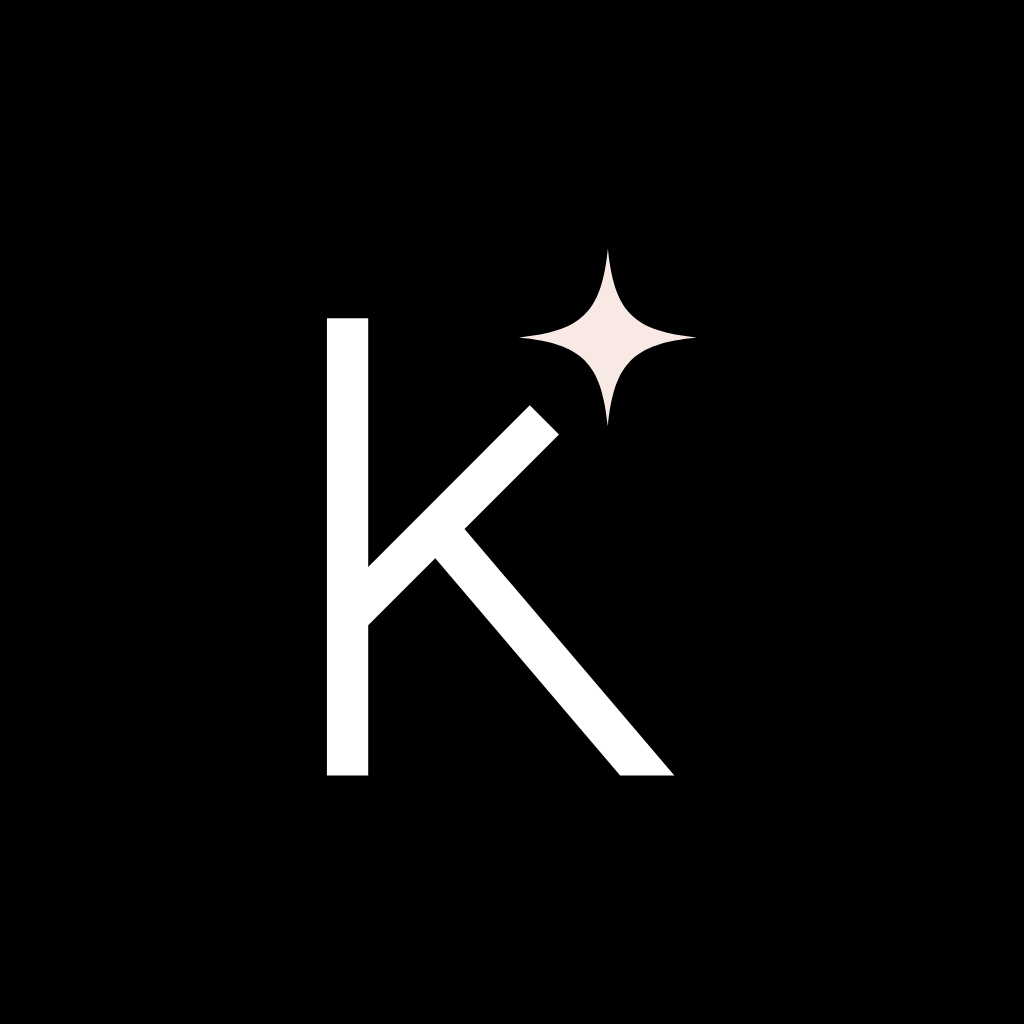
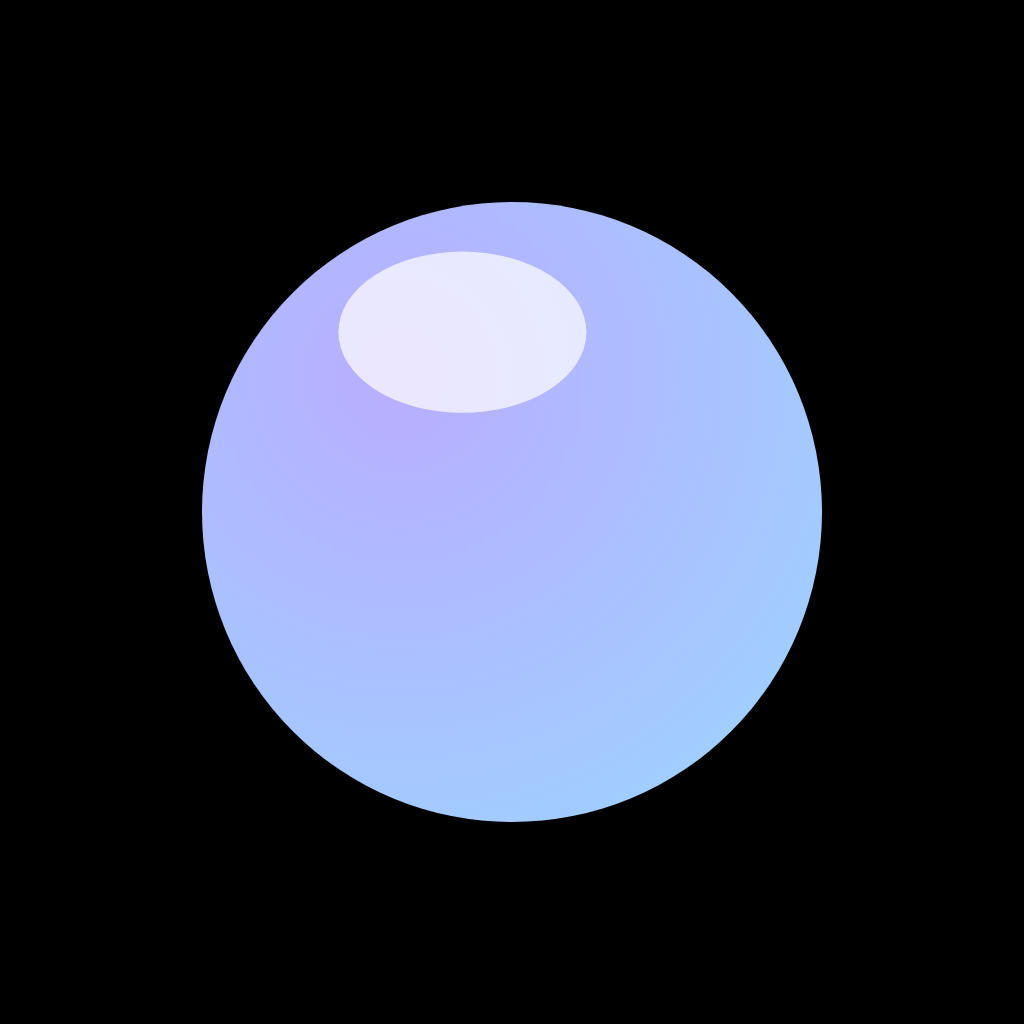
Mobile : l'orbe remplace le K, nouvelle intro
- Logo : l'orbe remplace le K étoilé (ui/Logo.tsx).
- Intro : même scénario que le web (ui/Intro.tsx).
- Icône, icône adaptative, lancement et favicon régénérés.

Claude-Session: https://claude.ai/code/session_017EdprxiaToN2E9w5S65h9H

Changed region(s): [[0.1875, 0.1875, 0.8125, 0.8125]]

diff --git a/mobile/src/ui/Intro.tsx b/mobile/src/ui/Intro.tsx
@@ -2,38 +2,31 @@ import { useEffect, useState } from 'react';
 import { Pressable, StyleSheet, View } from 'react-native';
 import Animated, {
   Easing,
-  useAnimatedProps,
   useAnimatedStyle,
   useReducedMotion,
   useSharedValue,
   withDelay,
   withTiming,
 } from 'react-native-reanimated';
-import Svg, { ClipPath, Defs, G, Path, Rect } from 'react-native-svg';
+import Svg, { Circle, Defs, Ellipse, RadialGradient, Stop } from 'react-native-svg';
 import { useTheme } from '../theme/ThemeProvider';
 import { type } from '../theme/tokens';
 
 /**
- * L'intro (13/10), une fois par lancement, la même que sur le web
- * (`web/src/components/Intro.tsx`) : le K se coud trait par trait,
- * l'étincelle de Kodi s'allume, une couture se pique, DRESSKODE se resserre,
- * puis la caméra plonge dans le K et l'app apparaît derrière. Noir sur blanc
- * en clair, blanc sur noir en sombre. Un toucher la passe ; « Réduire les
- * animations » la réduit à un fondu.
+ * L'intro (25/10), une fois par lancement, la même que sur le web
+ * (`web/src/components/Intro.tsx`) : l'orbe apparaît, son reflet fait le tour
+ * de la sphère, DRESSKODE se resserre, puis la caméra plonge dans l'orbe et
+ * l'app apparaît derrière. Le fond suit le thème. Un toucher la passe ;
+ * « Réduire les animations » la réduit à un fondu.
  */
-const AnimatedPath = Animated.createAnimatedComponent(Path);
-
 const SIZE = 128;
-const SPARK = 'M71 3C72 13 75 16 85 17C75 18 72 21 71 31C70 21 67 18 57 17C67 16 70 13 71 3Z';
-// Longueur de chaque trait du K, pour le dessiner au pointillé qui avance.
-const LEN = { stem: 72, up: 43.84, lo: 59.09 };
 const END = 2900;
-const SEAM_DASHES = Array.from({ length: 33 });
 const BRAND_SPACING = type.brand.letterSpacing;
+const ORBE = { from: '#b9adff', to: '#9fd0ff' };
 
-const inOut = Easing.bezier(0.65, 0, 0.35, 1);
 const out = Easing.bezier(0.33, 1, 0.68, 1);
 const outExpo = Easing.bezier(0.22, 1, 0.36, 1);
+const inOut = Easing.bezier(0.65, 0, 0.35, 1);
 const spring = Easing.bezier(0.34, 1.56, 0.64, 1);
 const dive = Easing.bezier(0.7, 0, 0.84, 0);
 
@@ -51,17 +44,12 @@ function Curtain({ onDone }: { onDone: () => void }) {
   const { c } = useTheme();
   const reduced = useReducedMotion();
 
-  // 1 = au début, 0 = en place (pointillés) ; 0 → 1 pour le reste.
-  const stem = useSharedValue(reduced ? 0 : 1);
-  const up = useSharedValue(reduced ? 0 : 1);
-  const lo = useSharedValue(reduced ? 0 : 1);
-  const spark = useSharedValue(reduced ? 1 : 0);
-  const glint = useSharedValue(reduced ? 1 : 0);
-  const seam = useSharedValue(reduced ? 1 : 0);
+  const orb = useSharedValue(reduced ? 1 : 0); // 0 = invisible, 1 = en place
+  const spin = useSharedValue(0); // 0 → 1 : un tour du reflet
   const word = useSharedValue(reduced ? 1 : 0);
   const push = useSharedValue(reduced ? 1 : 0);
   const zoom = useSharedValue(0);
-  const tail = useSharedValue(0); // la couture et le mot s'effacent avant la plongée
+  const tail = useSharedValue(0); // le mot s'efface avant la plongée
   const curtain = useSharedValue(1);
 
   useEffect(() => {
@@ -72,12 +60,8 @@ function Curtain({ onDone }: { onDone: () => void }) {
       return () => clearTimeout(t);
     }
     push.value = withTiming(1, { duration: 1900, easing: outExpo });
-    stem.value = at(150, 0, 500, inOut);
-    up.value = at(550, 0, 360);
-    lo.value = at(620, 0, 420);
-    spark.value = at(950, 1, 600, spring);
-    glint.value = at(1050, 1, 700, outExpo);
-    seam.value = at(1000, 1, 500, inOut);
+    orb.value = at(100, 1, 600, spring);
+    spin.value = at(600, 1, 900, inOut);
     word.value = at(1100, 1, 750, outExpo);
     tail.value = at(1950, 1, 200);
     zoom.value = at(1950, 1, 700, dive);
@@ -92,61 +76,41 @@ function Curtain({ onDone }: { onDone: () => void }) {
     setTimeout(onDone, 260);
   };
 
-  const stemProps = useAnimatedProps(() => ({ strokeDashoffset: stem.value * LEN.stem }));
-  const upProps = useAnimatedProps(() => ({ strokeDashoffset: up.value * LEN.up }));
-  const loProps = useAnimatedProps(() => ({ strokeDashoffset: lo.value * LEN.lo }));
-
   const curtainStyle = useAnimatedStyle(() => ({ opacity: curtain.value }));
   const stageStyle = useAnimatedStyle(() => ({ transform: [{ scale: 0.92 + 0.08 * push.value }] }));
   const markStyle = useAnimatedStyle(() => ({ transform: [{ scale: 1 + 41 * zoom.value }] }));
-  const sparkStyle = useAnimatedStyle(() => ({
-    opacity: Math.min(1, spark.value * 1.8),
-    transform: [{ scale: spark.value }, { rotate: `${(1 - spark.value) * -120}deg` }],
-  }));
-  const glintStyle = useAnimatedStyle(() => ({
-    opacity: glint.value < 0.3 ? (glint.value / 0.3) * 0.45 : (1 - glint.value) / 0.7 * 0.45,
-    transform: [{ scale: 0.4 + 2 * glint.value }],
-  }));
-  const seamStyle = useAnimatedStyle(() => ({ opacity: 0.55 * (1 - tail.value), transform: [{ scaleX: seam.value }] }));
+  const orbStyle = useAnimatedStyle(() => ({ opacity: Math.min(1, orb.value * 1.6), transform: [{ scale: orb.value }] }));
+  const spinStyle = useAnimatedStyle(() => ({ transform: [{ rotate: `${spin.value * 360}deg` }] }));
   const wordStyle = useAnimatedStyle(() => {
     const spacing = BRAND_SPACING + (1 - word.value) * BRAND_SPACING * 2;
     // L'espace après la dernière lettre est compensé à gauche : le mot reste centré.
     return { opacity: word.value * (1 - tail.value), letterSpacing: spacing, paddingLeft: spacing };
   });
 
-  const px = (n: number) => (n / 100) * SIZE;
-
   return (
     <Animated.View style={[StyleSheet.absoluteFill, styles.curtain, { backgroundColor: c.paper }, curtainStyle]} accessibilityElementsHidden importantForAccessibility="no-hide-descendants">
       <Pressable style={styles.fill} onPress={skip} accessible={false}>
         <Animated.View style={[styles.stage, stageStyle]}>
           <Animated.View style={[styles.mark, markStyle]}>
-            <Svg width={SIZE} height={SIZE} viewBox="0 0 100 100">
-              <Defs>
-                <ClipPath id="intro-clip">
-                  <Rect x="0" y="14" width="100" height="72" />
-                </ClipPath>
-              </Defs>
-              <G clipPath="url(#intro-clip)" fill="none" stroke={c.ink} strokeWidth={6.5}>
-                <AnimatedPath d="M30 86V14" strokeDasharray={[LEN.stem, LEN.stem]} animatedProps={stemProps} />
-                <AnimatedPath d="M30 61L61 30" strokeDasharray={[LEN.up, LEN.up]} animatedProps={upProps} />
-                <AnimatedPath d="M44 47L82.3 92" strokeDasharray={[LEN.lo, LEN.lo]} animatedProps={loProps} />
-              </G>
-            </Svg>
-            <Animated.View
-              style={[styles.glint, { left: px(57), top: px(3), width: px(28), height: px(28), borderColor: c.ink }, glintStyle]}
-            />
-            <Animated.View style={[styles.abs, { left: px(57), top: px(3) }, sparkStyle]}>
-              <Svg width={px(28)} height={px(28)} viewBox="57 3 28 28">
-                <Path d={SPARK} fill={c.ink} />
+            <Animated.View style={[styles.abs, orbStyle]}>
+              <Svg width={SIZE} height={SIZE} viewBox="0 0 100 100">
+                <Defs>
+                  <RadialGradient id="intro-orbe" cx="32%" cy="28%" r="85%">
+                    <Stop offset="0%" stopColor={ORBE.from} />
+                    <Stop offset="100%" stopColor={ORBE.to} />
+                  </RadialGradient>
+                </Defs>
+                <Circle cx={50} cy={50} r={50} fill="url(#intro-orbe)" />
               </Svg>
+              {/* Le reflet tourne ; le disque qui le rogne reste fixe. */}
+              <View style={styles.disc} pointerEvents="none">
+                <Animated.View style={[StyleSheet.absoluteFill, spinStyle]}>
+                  <Svg width={SIZE} height={SIZE} viewBox="0 0 100 100">
+                    <Ellipse cx={42} cy={21} rx={20} ry={13} fill="#ffffff" fillOpacity={0.7} />
+                  </Svg>
+                </Animated.View>
+              </View>
             </Animated.View>
-          </Animated.View>
-
-          <Animated.View style={[styles.seam, seamStyle]}>
-            {SEAM_DASHES.map((_, i) => (
-              <View key={i} style={[styles.dash, { backgroundColor: c.ink }]} />
-            ))}
           </Animated.View>
 
           <Animated.Text style={[type.brand, { color: c.ink }, wordStyle]}>DRESSKODE</Animated.Text>
@@ -160,9 +124,7 @@ const styles = StyleSheet.create({
   curtain: { zIndex: 1000, elevation: 1000, overflow: 'hidden' },
   fill: { flex: 1, alignItems: 'center', justifyContent: 'center' },
   stage: { alignItems: 'center', gap: 22 },
-  mark: { width: SIZE, height: SIZE, transformOrigin: '62% 52%' },
-  abs: { position: 'absolute' },
-  glint: { position: 'absolute', borderWidth: 1, borderRadius: 999 },
-  seam: { width: 132, height: 1, flexDirection: 'row', gap: 2, transformOrigin: 'left' },
-  dash: { width: 2, height: 1 },
+  mark: { width: SIZE, height: SIZE },
+  abs: { position: 'absolute', left: 0, top: 0, width: SIZE, height: SIZE },
+  disc: { position: 'absolute', left: 0, top: 0, width: SIZE, height: SIZE, borderRadius: SIZE / 2, overflow: 'hidden' },
 });

diff --git a/mobile/src/ui/Logo.tsx b/mobile/src/ui/Logo.tsx
@@ -1,36 +1,36 @@
+import { useRef } from 'react';
 import { View, type StyleProp, type TextStyle, type ViewStyle } from 'react-native';
-import Svg, { Path } from 'react-native-svg';
-import { useTheme } from '../theme/ThemeProvider';
+import Svg, { Circle, Defs, Ellipse, RadialGradient, Stop } from 'react-native-svg';
 import { T } from './T';
 
 /**
- * Le logo (piste A validée le 13/10, `../../design/logo/`) : un K fin dont la
- * branche haute s'arrête sur l'étincelle de Kodi. Mêmes tracés que le web
- * (`web/src/components/Logo.tsx`). Il prend la couleur du texte qu'il
- * accompagne : noir en clair, blanc en sombre.
+ * Le logo (25/10) : l'orbe de Kodi, une sphère lavande vers ciel avec son
+ * reflet. Il remplace le K étoilé (13/10), retiré à la demande de
+ * l'utilisateur. Mêmes couleurs et même reflet que le web
+ * (`web/src/components/Logo.tsx`) et que l'orbe au repos (`Orb`).
  */
-const K = {
-  stem: 'M26.75 14H33.25V86H26.75Z',
-  upper: 'M32.3 63.3L63.3 32.3L58.7 27.7L27.7 58.7Z',
-  lower: 'M41.53 49.11L72.93 86L81.47 86L46.48 44.89Z',
-  spark: 'M71 3C72 13 75 16 85 17C75 18 72 21 71 31C70 21 67 18 57 17C67 16 70 13 71 3Z',
-};
+const ORBE = { from: '#b9adff', to: '#9fd0ff' };
 
-/** Les couleurs du logo : celle du texte, celle posée sur un bouton plein, celle d'un panneau noir (carte de membre, 21/10). */
-type LogoTone = 'ink' | 'primary-fg' | 'on-panel';
+let logoUid = 0;
 
-export function Monogram({ size = 22, tone = 'ink' }: { size?: number; tone?: LogoTone }) {
-  const { c } = useTheme();
-  const fill = c[tone];
+/** Le monogramme : l'orbe seule. Sa couleur ne suit pas le texte : c'est un dessin, pas une lettre. */
+export function Monogram({ size = 22 }: { size?: number }) {
+  const gradId = useRef(`logo-orbe-${++logoUid}`).current;
   return (
     <Svg width={size} height={size} viewBox="0 0 100 100" accessible={false}>
-      <Path d={K.stem} fill={fill} />
-      <Path d={K.upper} fill={fill} />
-      <Path d={K.lower} fill={fill} />
-      <Path d={K.spark} fill={fill} />
+      <Defs>
+        <RadialGradient id={gradId} cx="32%" cy="28%" r="85%">
+          <Stop offset="0%" stopColor={ORBE.from} />
+          <Stop offset="100%" stopColor={ORBE.to} />
+        </RadialGradient>
+      </Defs>
+      <Circle cx={50} cy={50} r={50} fill={`url(#${gradId})`} />
+      <Ellipse cx={42} cy={21} rx={20} ry={13} fill="#ffffff" fillOpacity={0.7} />
     </Svg>
   );
 }
+
+type LogoTone = 'ink' | 'primary-fg' | 'on-panel';
 
 /** La marque : le monogramme devant DRESSKODE, lue « Dresskode » par les lecteurs d'écran. */
 export function BrandMark({
@@ -46,7 +46,7 @@ export function BrandMark({
 }) {
   return (
     <View accessible accessibilityRole="header" accessibilityLabel="Dresskode" style={[{ flexDirection: 'row', alignItems: 'center', gap: 8 }, style]}>
-      <Monogram size={size} tone={tone} />
+      <Monogram size={size} />
       <T v="brand" tone={tone} numberOfLines={1} style={textStyle}>
         DRESSKODE
       </T>
